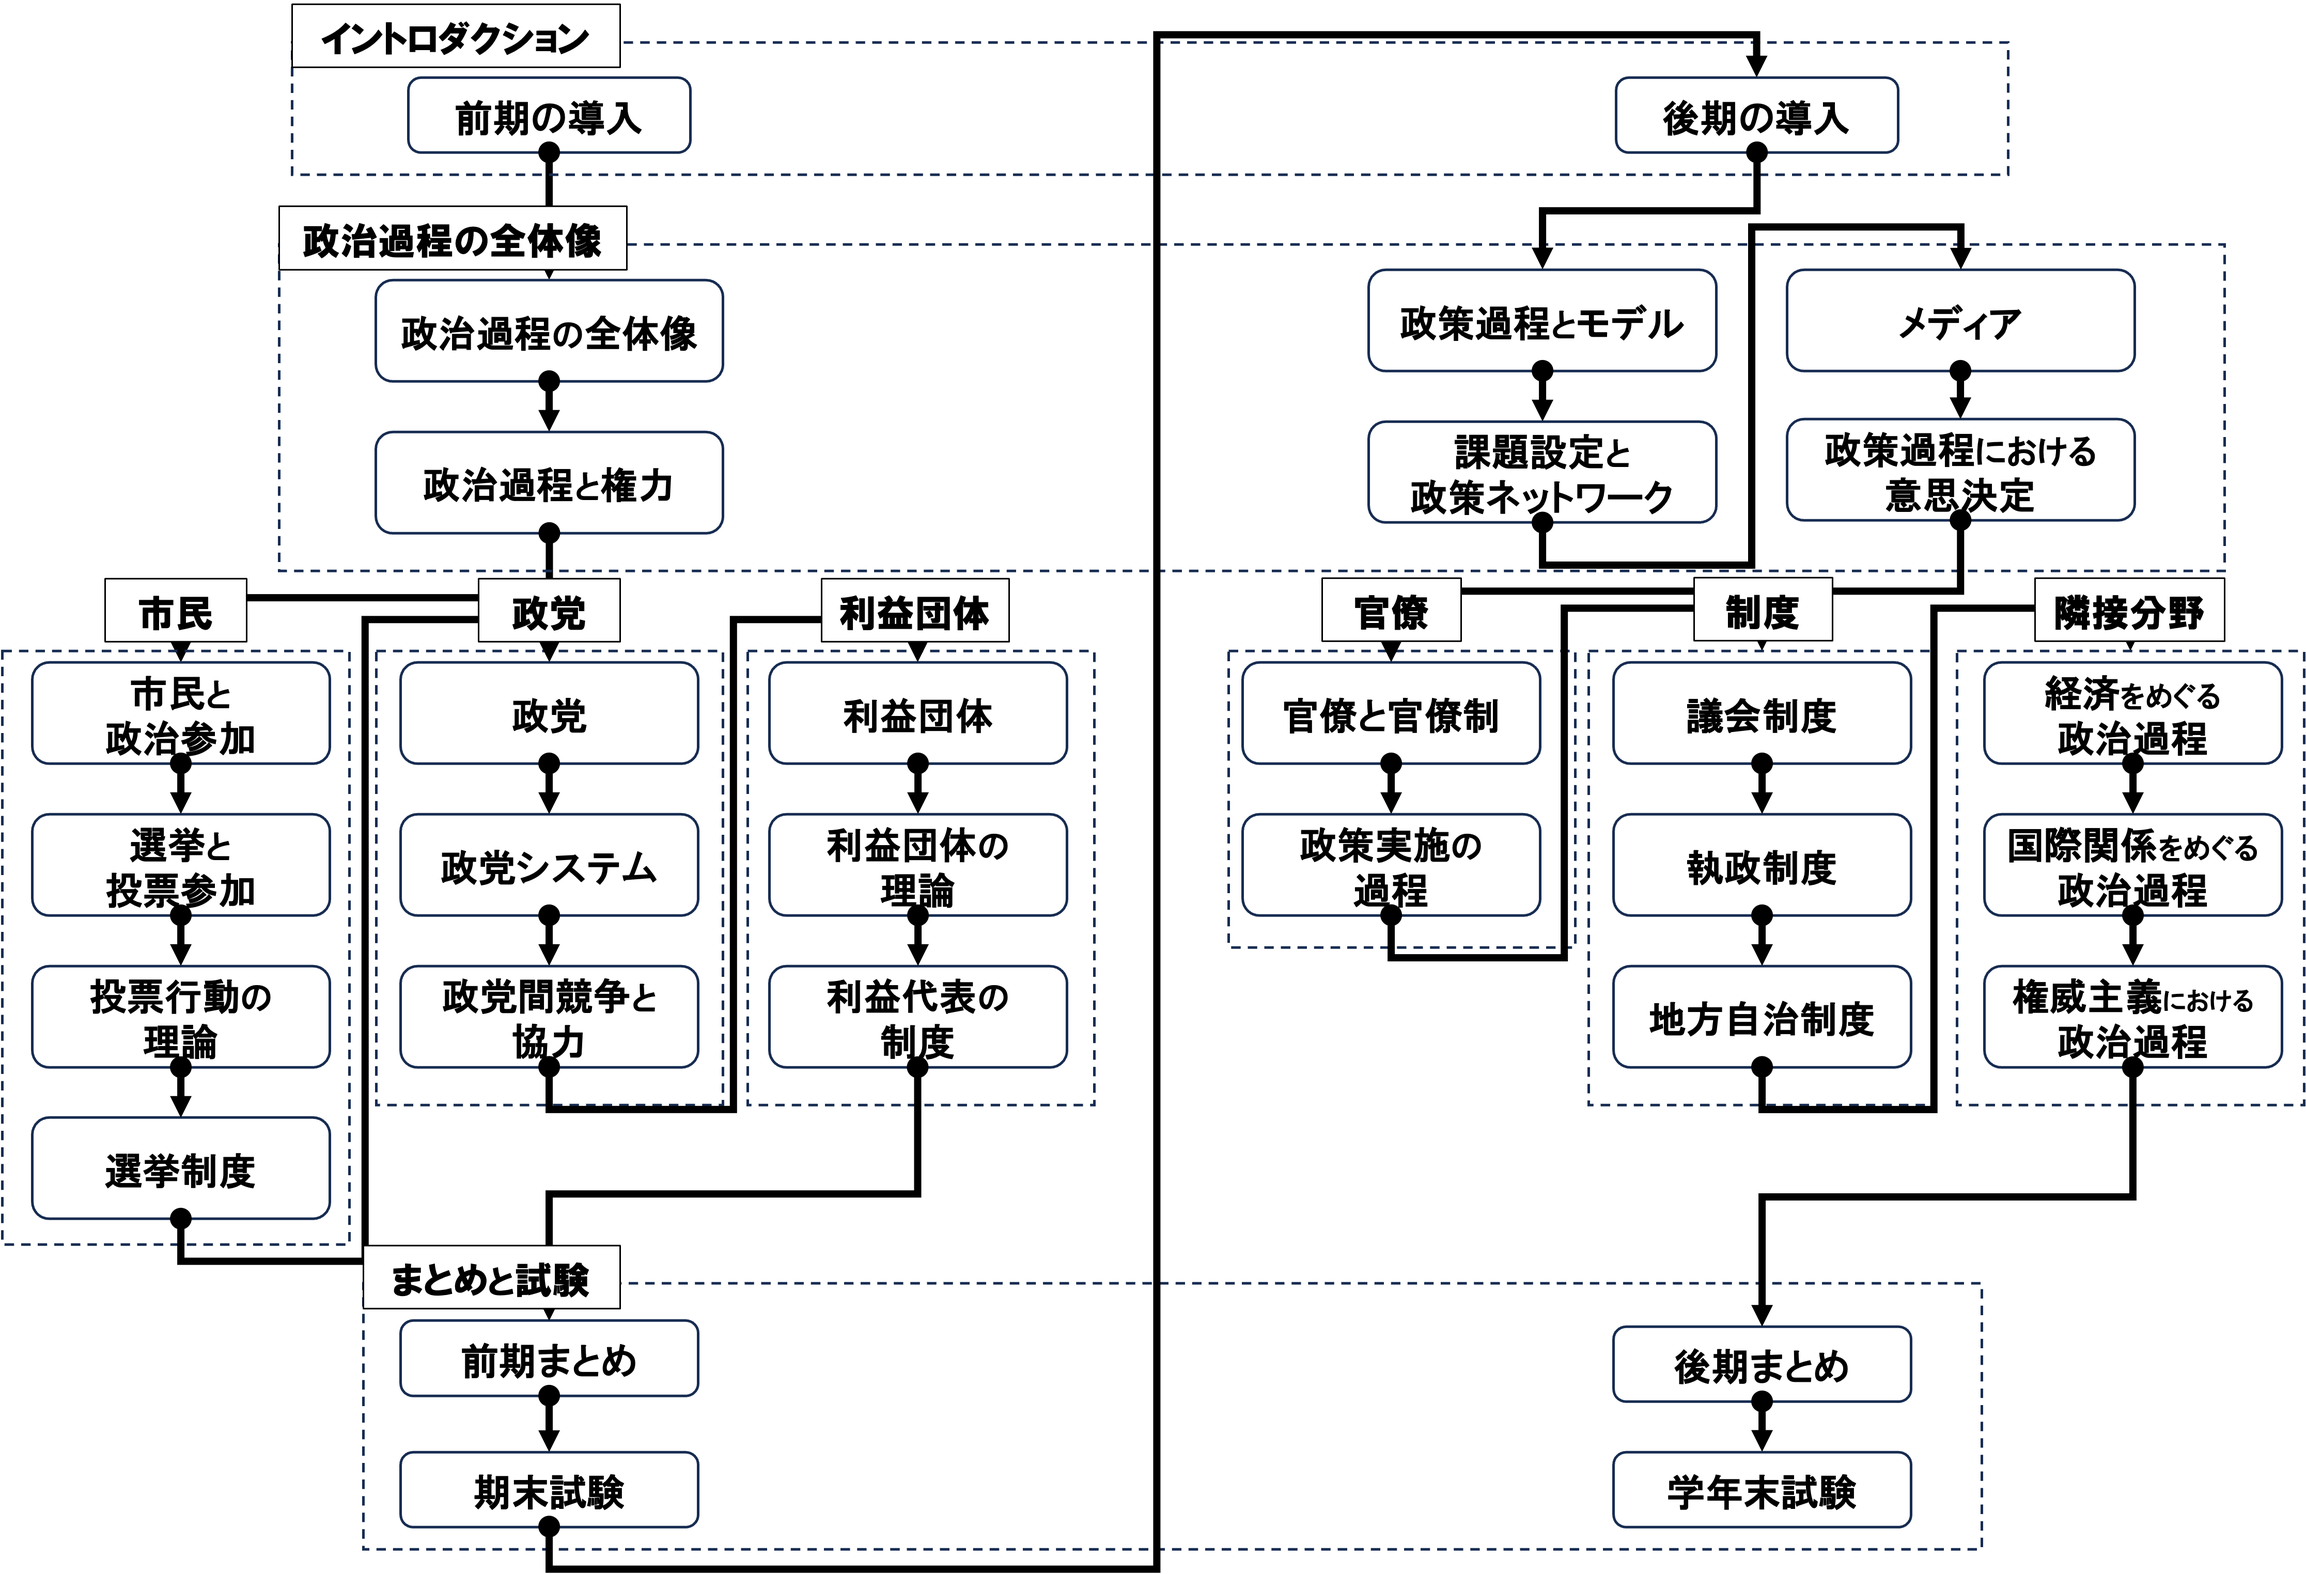
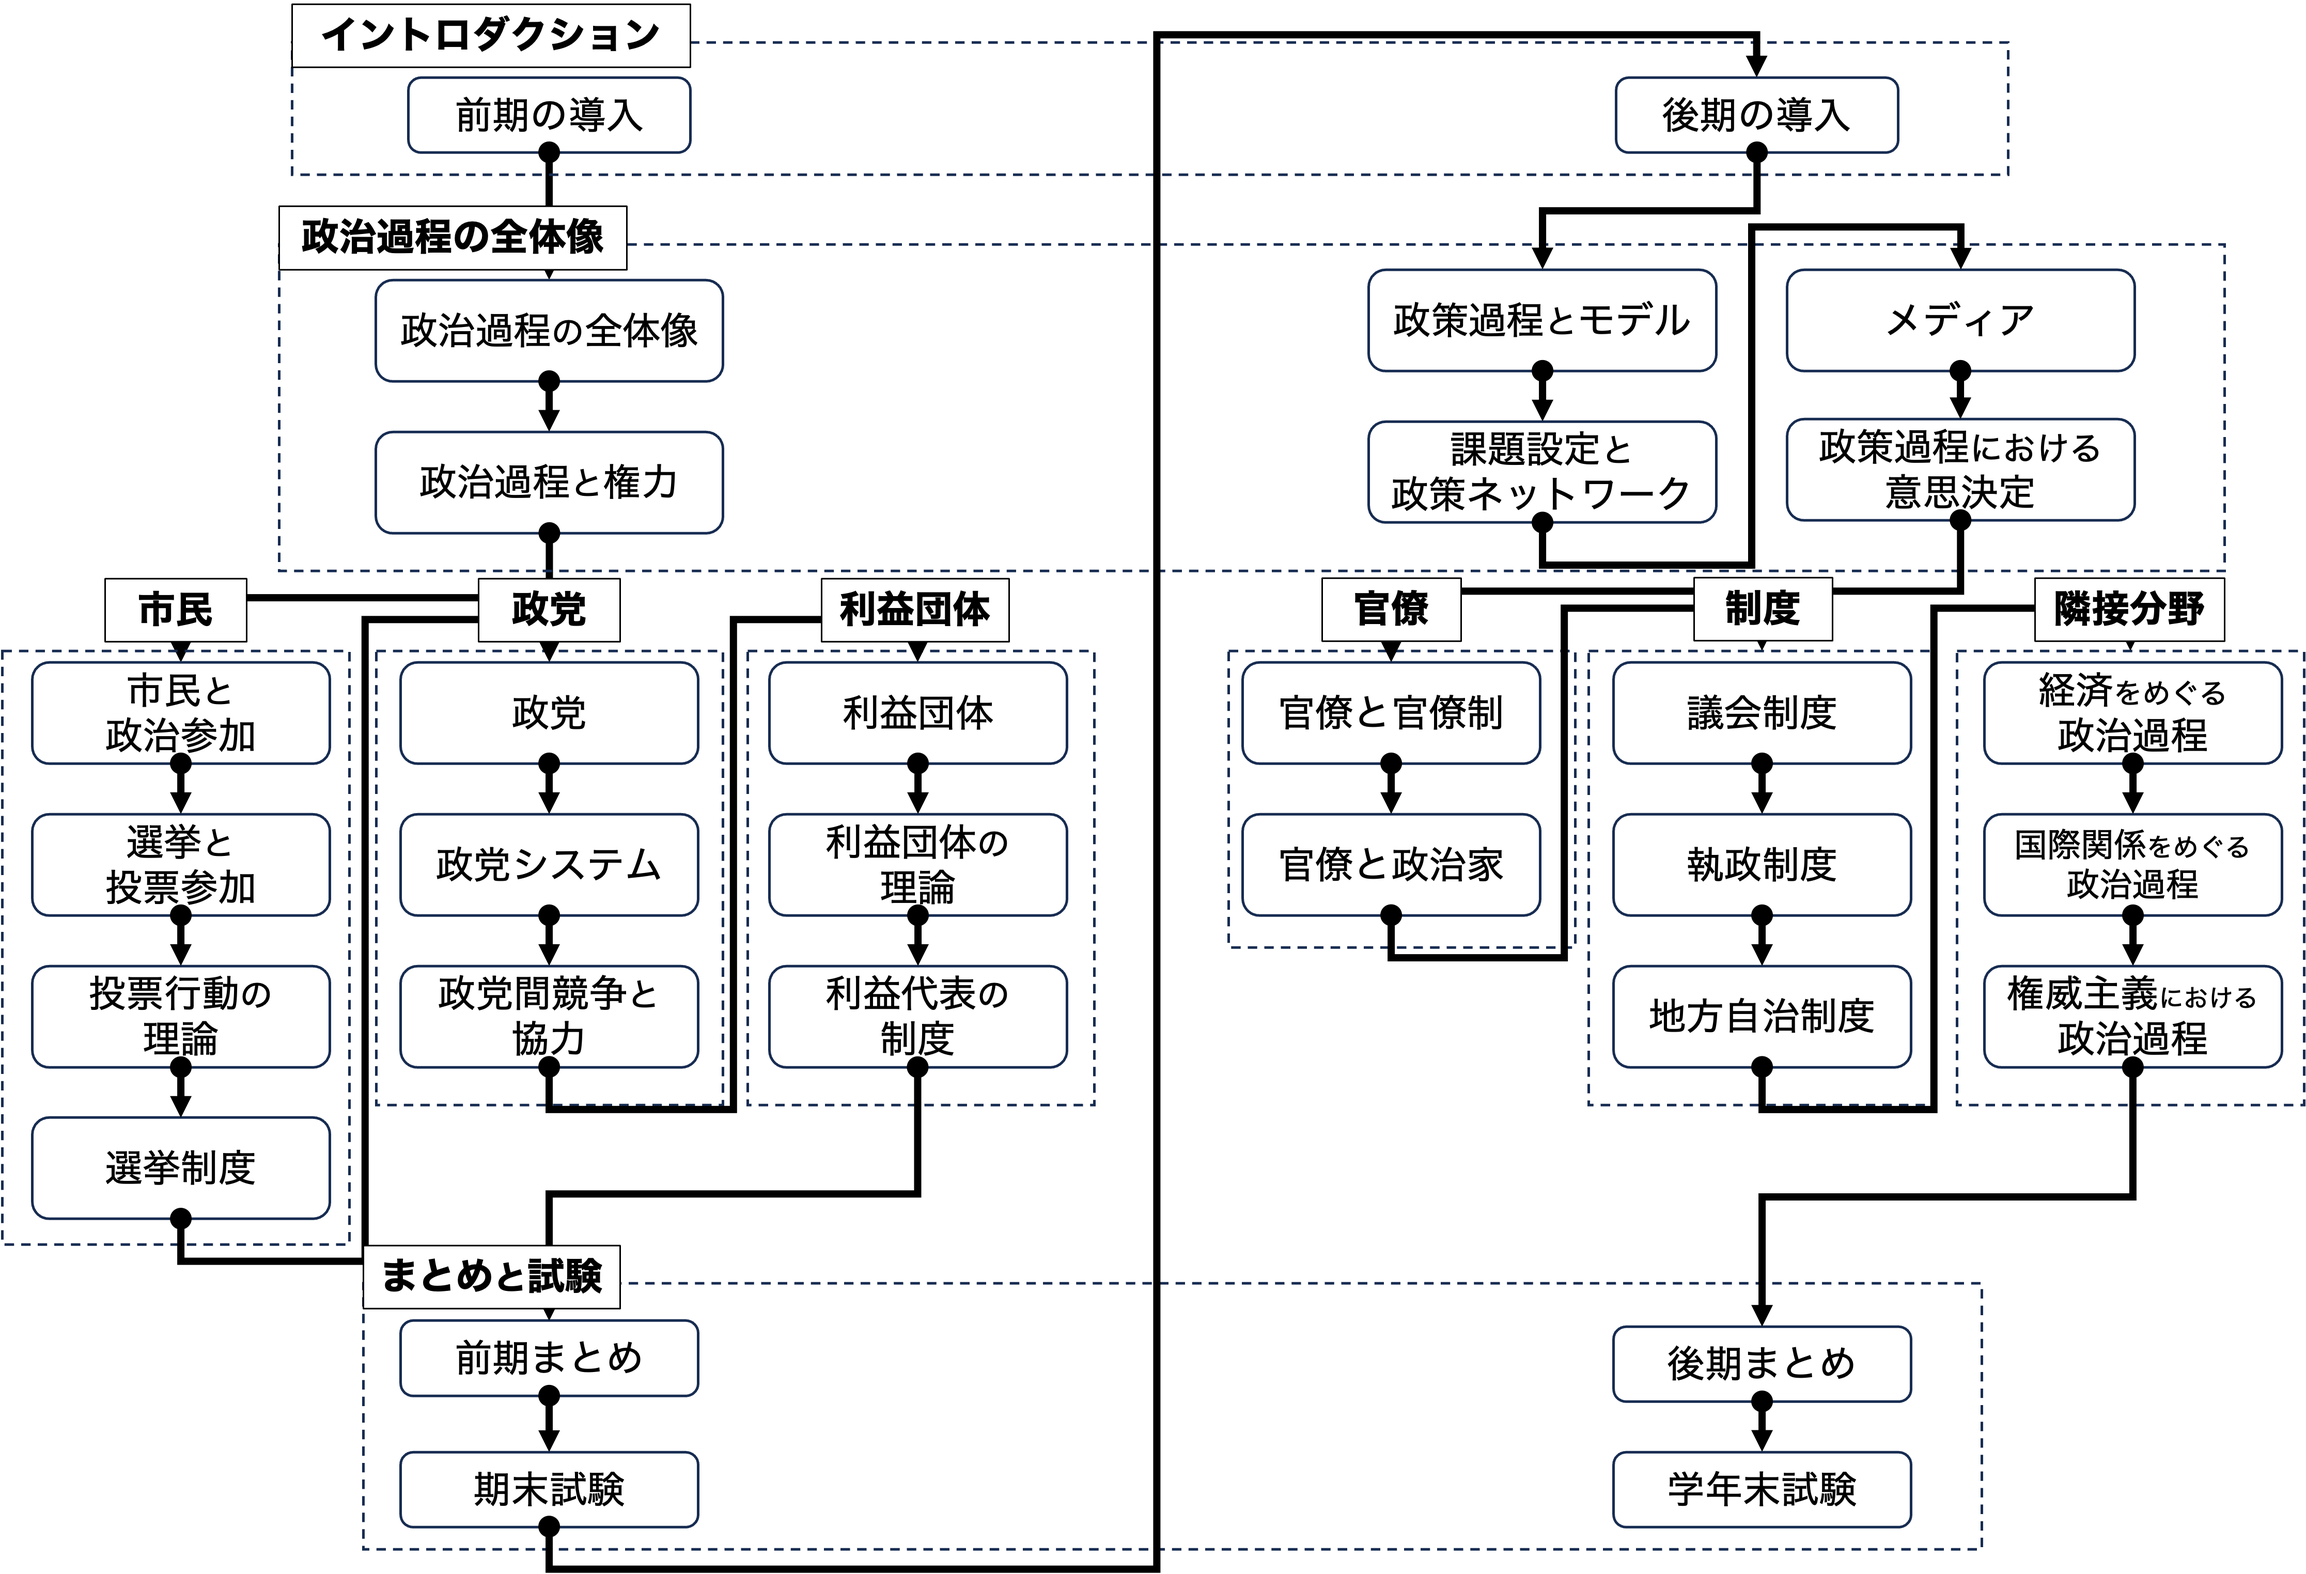
Updated 21/Bureaucracy

diff --git a/docs/21_bureaucracy_slide.html b/docs/21_bureaucracy_slide.html
@@ -195,8 +195,8 @@
           display:block!important;
       }</style></aside>
 </section>
-<section id="先週のrpより13" class="slide level2">
-<h2>先週のRPより（1/3）</h2>
+<section id="先週のrpより-13" class="slide level2">
+<h2>先週のRPより (1/3)</h2>
 <blockquote>
 <p>限定合理性のことを、ピンチになった時に、普段では思いつかない解決策や回避策が思いつくというイメージなのかなと解釈した。</p>
 </blockquote>
@@ -215,16 +215,21 @@
 </ul></li>
 <li>今後同様の事例があった場合にはRPは提出していないものとみなす</li>
 </ul>
-<p>限定合理性→微妙に違う</p>
+<p>限定合理性→ピンチになった時に普段思いつかないことが思いつくというのは微妙に違う</p>
 <ul>
-<li>人間は情報処理能力などのさまざまな限界の中で合理性を発揮できるに過ぎないということ</li>
+<li>この書き方だと「ピンチの時にこそ完全合理性が発揮できる」という感じになりそうだが…。</li>
+<li>人間は情報処理能力などのさまざまな限界の中で合理性を発揮できるに過ぎないということ
+<ul>
 <li>人間は完全に不合理というわけではない→制約に直面しながら最善はつくす</li>
 <li>とはいえ、やはり制約は存在して、完全に合理的であることは無理</li>
+</ul></li>
 </ul>
 <p>合理的包括的意思決定と連続的限定比較</p>
 <ul>
-<li>後者の方が主流→インクリメンタリズム</li>
-<li>前者は完全合理性→そんなことは実際には無理でしょう（サイモンの批判と同じ趣旨）</li>
+<li>実際の政策決定現場では後者の方が主流
+<ul>
+<li>例：予算編成、警察の検挙目標…</li>
+</ul></li>
 </ul>
 <style type="text/css">
         span.MJX_Assistive_MathML {
@@ -256,19 +261,47 @@
 <aside class="notes">
 <p>組織過程モデル</p>
 <ul>
-<li>政府は人間の集合体である組織であるから、個人のように行動しない</li>
+<li>政府は人間の集合体である組織であるから、直ちに個人のように行動しない</li>
 <li>異なった人間を動かすためには、マニュアル（標準作業手続き）が必要</li>
 <li>マニュアルにしたがった結果、カモフラージュなしにミサイルを置くような一見不合理な行動をすることがある</li>
 </ul>
 <p>政府内政治モデル</p>
 <ul>
-<li>政府の中にはお偉いさんたちがいて、権力闘争をする</li>
-<li>自分の手柄欲しさに異なった政策を提示し、争う→空軍と国務省、日本の陸軍と海軍</li>
+<li>政府の中にはお偉いさんたちがいて、権力闘争をする
+<ul>
+<li>予算が欲しい、縄張りを維持したい、手柄が欲しい…</li>
+</ul></li>
+<li>自分の都合で異なった政策を提示し、争う
+<ul>
+<li>空爆で存在意義を示したい空軍と外交で手柄を上げたい国務省</li>
+<li>日本の陸軍と海軍→方針の違いや予算争い</li>
+</ul></li>
 </ul>
 <p>クイズの解説</p>
 <ul>
-<li>踊る大捜査線→警察上層部が「うちの捜査員を行かせる」と手柄を争う→政府内政治モデル</li>
-<li>フジテレビ→記者会見をする際にはカメラを入れないとマニュアルを定めている→そのマニュアルにただ従った結果大炎上→組織過程モデル</li>
+<li>踊る大捜査線
+<ul>
+<li>すでに現場の捜査員（青島くん）が犯人を見つけた→そのまま逮捕するのが合理的</li>
+<li>しかし警察上層部が止めて、言い争っている（「うちの捜査員を行かせる」）
+<ul>
+<li>現場ではなく自分の部署が逮捕できれば自分の手柄になる</li>
+<li>これはまさに政府内政治モデルの例→自分の都合で政策を争う</li>
+</ul></li>
+</ul></li>
+<li>フジテレビ
+<ul>
+<li>疑惑を晴らし説明責任を果たすためにはオープンで会見した方が合理的</li>
+<li>しかし実際には動画撮影禁止の会見が開かれた
+<ul>
+<li>報道されたのは静止画だけの紙芝居状態</li>
+</ul></li>
+<li>普段行っている月一回の定例記者会見を前倒しする形で行った
+<ul>
+<li>定例だからマニュアルがしっかりしている</li>
+<li>1から記者会見のやり方を考え直すよりは合理的</li>
+<li>これはまさに組織過程モデルの例→マニュアルに従って裏目に出た</li>
+</ul></li>
+</ul></li>
 </ul>
 <style type="text/css">
         span.MJX_Assistive_MathML {
@@ -282,8 +315,8 @@
           display:block!important;
       }</style></aside>
 </section>
-<section id="先週のrpより33" class="slide level2">
-<h2>先週のRPより(3/3)</h2>
+<section id="先週のrpより-33" class="slide level2">
+<h2>先週のRPより (3/3)</h2>
 <blockquote>
 <p>キューバ危機において、政府内政治モデルでは、アメリカは、空軍と国務省の争いに、海上封鎖という決断をとったとなるが、妥協の産物として生まれた結果は、閉鎖ということは国務省に傾いたということなのですか。</p>
 </blockquote>
@@ -363,7 +396,7 @@
 <h4 id="プリンシパルエージェント関係次回">プリンシパル＝エージェント関係（次回）</h4>
 <p><strong>本人</strong>ができないことを<strong>代理人</strong>に委任する関係</p>
 <ul>
-<li class="fragment">本人＝政治家→代理人→官僚</li>
+<li class="fragment">本人＝政治家→代理人＝官僚</li>
 <li class="fragment">行政が関与する領域が増えるにつれて、官僚の専門知識はますます重要に</li>
 </ul>
 </div>
